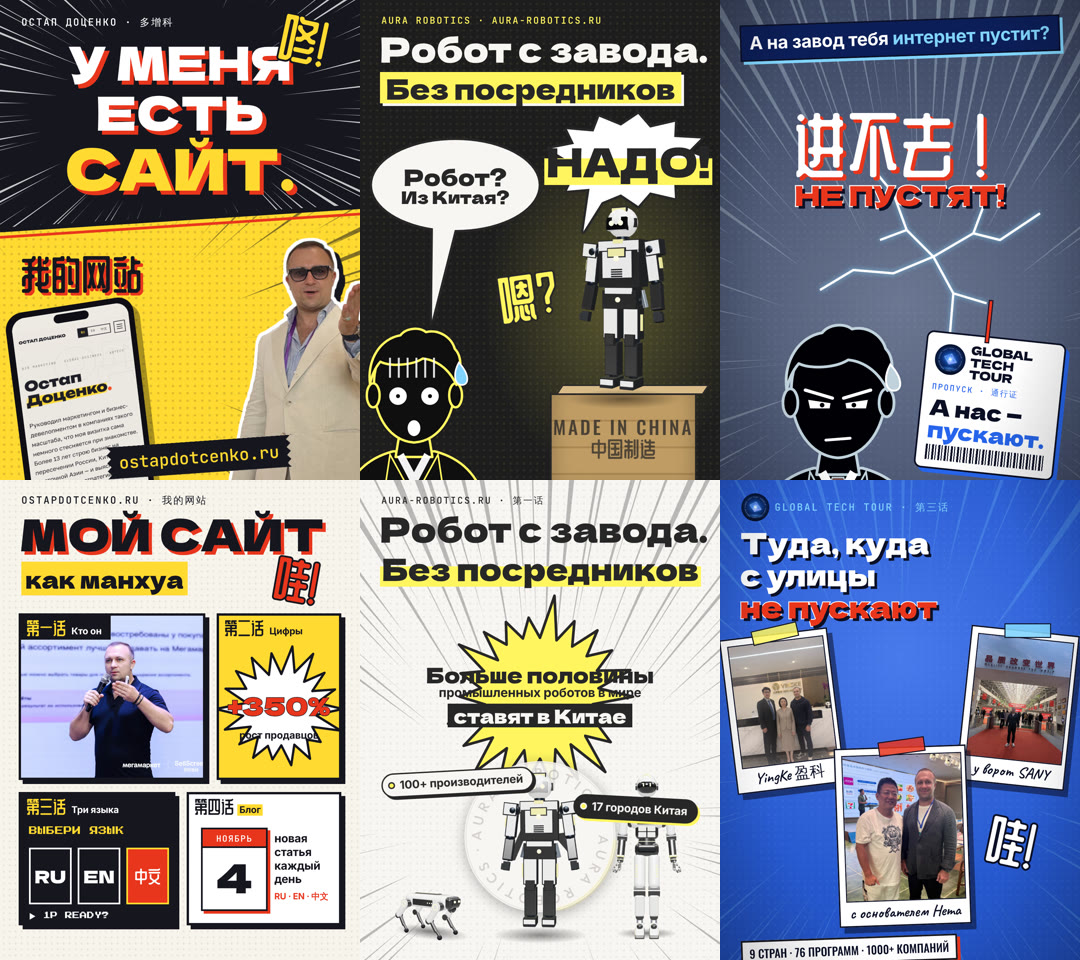
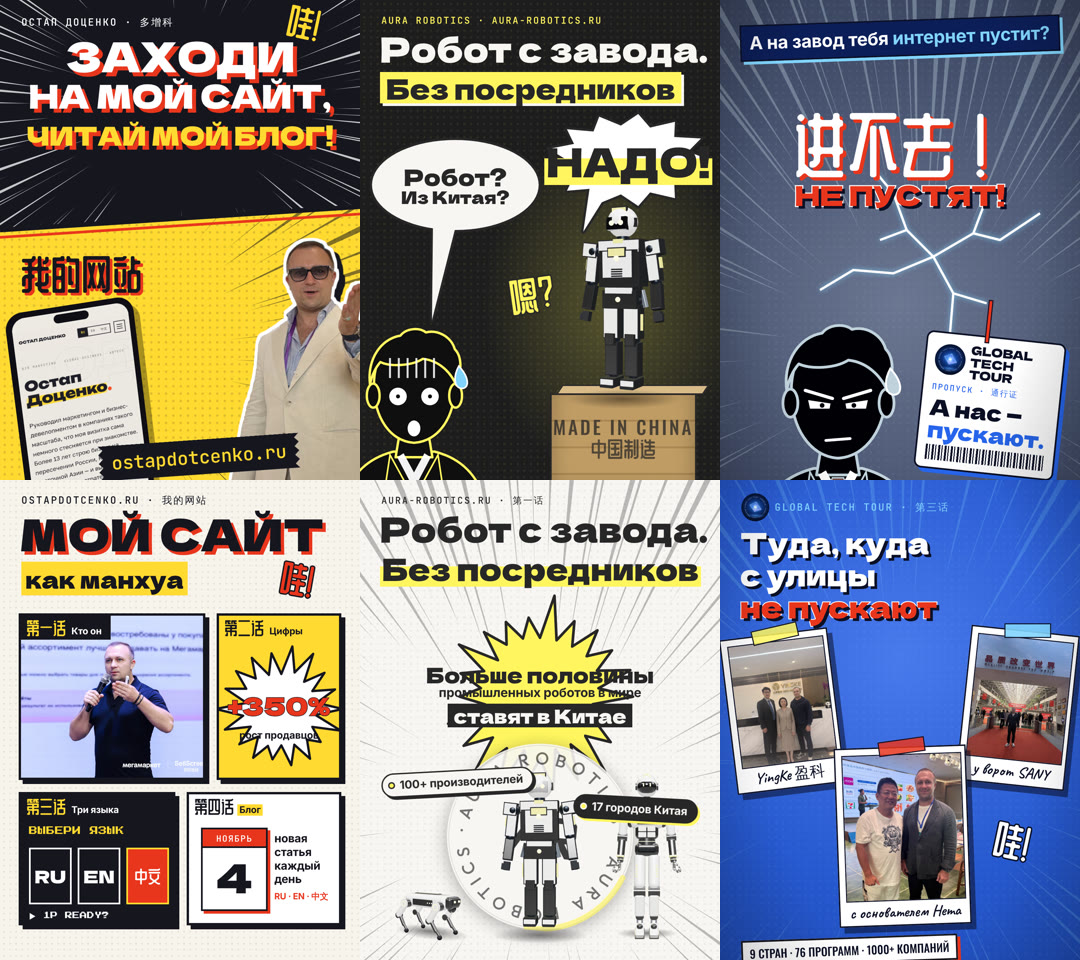
Обложки манхуа: «Мой сайт» — «Заходи на мой сайт, читай мой блог» (выбран A), Aura — A; GTT — ещё 4 варианта (VS, кампусы, страница, 9 стран)
Claude-Session: https://claude.ai/code/session_01GWbvgKxue3PjjbbHEP4BVJ

diff --git a/reels-studio/src/compositions/ManhuaCovers.tsx b/reels-studio/src/compositions/ManhuaCovers.tsx
@@ -16,7 +16,7 @@ import {FONT} from "./site-manhua/fonts";
 import {Skeptic} from "./site-manhua/skeptic";
 import {Bubble, Burst, C, Grain, Halftone, Narration, Phone, Sfx, SpeedLines, Tape, Vignette} from "./site-manhua/fx";
 
-export const MANHUA_COVERS = 6;
+export const MANHUA_COVERS = 10;
 // все анимации набора к этому кадру уже закончились; 3D-жесты считаются от T секунд
 const F = 200;
 const T = F / 30;
@@ -42,15 +42,15 @@ const Polaroid: React.FC<{x: number; y: number; w: number; h: number; src: strin
   </div>
 );
 
-// ── «Мой сайт», A: хук — «У МЕНЯ ЕСТЬ САЙТ.» ударами на чернилах, снизу жёлтый растр: телефон с сайтом и портрет ─────────────
+// ── «Мой сайт», A (правка пользователя 04.11.2026: «не У меня есть сайт — Заходи на мой сайт, Читай мой блог») — ударами на чернилах, снизу жёлтый растр: телефон с сайтом и портрет ─────────────
 const OdHook: React.FC = () => (
   <AbsoluteFill style={{background: C.ink}}>
     <SpeedLines color="#fff" opacity={0.75} inner={400} cy={560} seed="oda" />
     <div style={abs(64, 286, mono(30, "#fff"))}>ОСТАП ДОЦЕНКО · 多增科</div>
-    {[["У МЕНЯ", 350, 140, "#fff"], ["ЕСТЬ", 500, 140, "#fff"], ["САЙТ.", 650, 172, C.y]].map(([t, y, s, c]) => (
+    {[["ЗАХОДИ", 340, 124, "#fff"], ["НА МОЙ САЙТ,", 474, 98, "#fff"], ["ЧИТАЙ МОЙ БЛОГ!", 604, 78, C.y]].map(([t, y, s, c]) => (
       <div key={t as string} style={{position: "absolute", left: 0, right: 0, top: y as number, textAlign: "center", whiteSpace: "nowrap", ...dela(s as number, c as string, {textShadow: `12px 12px 0 ${C.red}`})}}>{t}</div>
     ))}
-    <Sfx text="咚!" x={850} y={300} size={120} color={C.y} at={0} font={FONT.zcool} rot={12} />
+    <Sfx text="哇!" x={860} y={250} size={110} color={C.y} at={0} font={FONT.zcool} rot={12} />
     {/* жёлтая половина с косым срезом */}
     <AbsoluteFill style={{clipPath: "polygon(0 930px, 1080px 860px, 1080px 1920px, 0 1920px)"}}>
       <Halftone bg={C.y} dot="rgba(25,25,34,.16)" />
@@ -267,8 +267,143 @@ const GttPeople: React.FC = () => (
   </AbsoluteFill>
 );
 
-const COVERS = [OdHook, OdPage, AuraHook, AuraTeam, GttHook, GttPeople];
-export const COVER_NAMES = ["od-A-hook", "od-B-glavy", "aura-A-hook", "aura-B-komanda", "gtt-A-hook", "gtt-B-pervye-lica"];
+
+const LOGO = "source-videos/логотипы/";
+const FLAG = "интернет-материалы/флаги/";
+const Title: React.FC<{y: number; lines: [string, string?][]; size?: number}> = ({y, lines, size = 88}) => (
+  <>
+    {lines.map(([s, c], i) => (
+      <div key={s} style={abs(60, y + i * (size + 8), dela(size, c ?? "#fff", {textShadow: `8px 8px 0 ${G.ink}`, whiteSpace: "nowrap", ...(c === G.red ? {WebkitTextStroke: "5px #fff", paintOrder: "stroke fill"} : {})}))}>{s}</div>
+    ))}
+  </>
+);
+const GttHead: React.FC<{zh?: string; light?: boolean}> = ({zh = "全球科技之旅", light}) => (
+  <div style={abs(64, 280, {display: "flex", alignItems: "center", gap: 16})}>
+    <Img src={staticFile(CRYSTAL)} style={{width: 84, height: 84, borderRadius: "50%"}} />
+    <div style={mono(30, light ? G.blue : G.sky)}>GLOBAL TECH TOUR · {zh}</div>
+  </div>
+);
+
+// ── GTT, C: экран файтинга «VS» — Директор с телефоном («я всё посмотрел в интернете») против Остапа на переговорах ────────────
+const GttVs: React.FC = () => (
+  <AbsoluteFill style={{background: G.ink}}>
+    {/* левая половина — серый «интернет» */}
+    <AbsoluteFill style={{clipPath: "polygon(0 0, 640px 0, 440px 1920px, 0 1920px)", filter: "grayscale(1) contrast(1.1)"}}>
+      <NavyBg cy={50} />
+      <SpeedLines color="rgba(255,255,255,.35)" cx={260} cy={1100} inner={300} seed="gvl" />
+      <Skeptic x={-150} y={1000} scale={1.3} emo="neutral" phone tie fill={G.ink} rim="#fff" accent={G.red} />
+    </AbsoluteFill>
+    {/* правая — синий GTT */}
+    <AbsoluteFill style={{clipPath: "polygon(640px 0, 1080px 0, 1080px 1920px, 440px 1920px)"}}>
+      <NavyBg cy={40} />
+      <SpeedLines color="rgba(125,211,252,.6)" cx={820} cy={1100} inner={320} seed="gvr" />
+      <Img src={staticFile(`${CUT}ostap-yingke-mikrofon.png`)} style={{position: "absolute", left: 420, top: 820, height: 900, filter: `drop-shadow(8px 0 0 #fff) drop-shadow(-8px 0 0 #fff) drop-shadow(0 -8px 0 #fff) drop-shadow(16px 16px 0 ${G.ink})`}} />
+    </AbsoluteFill>
+    <svg width={1080} height={1920} style={{position: "absolute", inset: 0}}>
+      <line x1={640} y1={0} x2={440} y2={1920} stroke="#fff" strokeWidth={18} />
+      <line x1={652} y1={0} x2={452} y2={1920} stroke={G.red} strokeWidth={8} />
+    </svg>
+    <div style={{fontFamily: FONT.pixel, fontSize: 30, color: G.sky, position: "absolute", left: 0, right: 0, top: 290, textAlign: "center"}}>ROUND 1 · FIGHT!</div>
+    <div style={abs(40, 360, {width: 520, background: "#fff", border: `5px solid ${G.ink}`, padding: "14px 20px", rotate: "-3deg", boxShadow: `8px 8px 0 ${G.ink}`, ...inter(40, G.ink)})}>
+      «Я всё посмотрел <span style={{color: G.red}}>в интернете</span>»
+    </div>
+    <div style={abs(520, 560, {width: 520, background: G.deep, border: `5px solid ${G.ink}`, padding: "14px 20px", rotate: "3deg", boxShadow: `8px 8px 0 ${G.sky}`, ...inter(40, "#fff")})}>
+      «А я был <span style={{color: G.sky}}>внутри</span>»
+    </div>
+    <div style={{position: "absolute", left: 0, right: 0, top: 760, textAlign: "center", ...dela(230, G.red, {WebkitTextStroke: "8px #fff", paintOrder: "stroke fill", textShadow: `14px 14px 0 ${G.ink}`, fontStyle: "italic"})}}>VS</div>
+    <div style={abs(40, 1560, {display: "flex", gap: 14})}>
+      <div style={{background: "#fff", border: `4px solid ${G.ink}`, padding: "8px 16px", ...mono(26, G.ink)}}>ИНТЕРНЕТ</div>
+    </div>
+    <div style={abs(640, 1560, {background: G.blue, border: `4px solid ${G.ink}`, padding: "8px 16px", ...mono(26, "#fff")})}>GLOBAL TECH TOUR</div>
+    <Grain opacity={0.1} />
+  </AbsoluteFill>
+);
+
+// ── GTT, D: пропуска шести кампусов на лентах — учёба у Huawei, Alibaba, Xiaomi… ──────────────────────────────────────────────
+const CAMPUS: [string, string][] = [["общие/huawei.svg", "Huawei"], ["общие/alibaba.svg", "Alibaba"], ["общие/xiaomi.svg", "Xiaomi"], ["бытовая-техника/haier.svg", "Haier"], ["общие/bytedance.png", "ByteDance"], ["финансы/ping-an.svg", "Ping An"]];
+const GttCampus: React.FC = () => (
+  <AbsoluteFill>
+    <NavyBg cy={45} />
+    <SpeedLines color="rgba(125,211,252,.35)" cx={540} cy={1150} inner={520} opacity={0.6} seed="gc" />
+    <GttHead zh="第四话" />
+    <Title y={380} lines={[["Пропуск"], ["в кампусы"], ["Huawei и Alibaba", G.sky]]} size={84} />
+    {CAMPUS.map(([l, n], i) => {
+      const col = i % 3;
+      const row = Math.floor(i / 3);
+      return (
+        <div key={n} style={abs(48 + col * 334, 820 + row * 380 + (col === 1 ? 40 : 0), {width: 300, rotate: `${(col - 1) * 6 + (row ? 3 : -3)}deg`})}>
+          <div style={abs(133, -70, {width: 34, height: 80, background: G.blue, border: `3px solid ${G.ink}`})} />
+          <div style={{background: "#fff", border: `4px solid ${G.ink}`, borderRadius: 18, overflow: "hidden", boxShadow: `9px 9px 0 ${G.blue}`}}>
+            <div style={{background: G.blue, color: "#fff", padding: "8px 14px", ...mono(20, "#fff")}}>ГОСТЬ КАМПУСА</div>
+            <div style={{height: 150, display: "flex", alignItems: "center", justifyContent: "center"}}>
+              <Img src={staticFile(`${LOGO}${l}`)} style={{maxWidth: 220, maxHeight: 92, objectFit: "contain"}} />
+            </div>
+            <div style={{padding: "0 14px 12px", ...inter(30, G.ink)}}>{n}</div>
+          </div>
+        </div>
+      );
+    })}
+    <Sfx text="学!" x={830} y={300} size={140} color={G.sky} stroke={G.ink} at={0} font={FONT.zcool} rot={-8} />
+    <Narration x={64} y={1612} at={0} font={FONT.oswald} size={32} rot={-2} bg="#fff" color={G.ink}>ИНТЕНСИВЫ ИЗ ПЕРВЫХ РУК · С ПЕРЕВОДОМ</Narration>
+    <Grain opacity={0.1} />
+    <Vignette strength={0.28} />
+  </AbsoluteFill>
+);
+
+// ── GTT, E: страница манхуа — «Интернет туда не пустит»: четыре панели с настоящими встречами и визитами ────────────────────────
+const GttPage: React.FC = () => {
+  const panel = (x: number, y: number, w: number, h: number, src: string, pos: string, tag: string, rot = 0) => (
+    <div style={abs(x, y, {width: w, height: h, border: `7px solid ${G.ink}`, boxShadow: `12px 12px 0 ${G.ink}`, overflow: "hidden", rotate: `${rot}deg`, background: G.ink})}>
+      <Img src={staticFile(src)} style={{width: "100%", height: "100%", objectFit: "cover", objectPosition: pos}} />
+      <div style={abs(0, 0, {background: G.ink, color: "#fff", padding: "8px 14px", ...inter(28, "#fff")})}>{tag}</div>
+    </div>
+  );
+  return (
+    <AbsoluteFill style={{background: "#F4F6FB"}}>
+      <Halftone bg="#F4F6FB" dot="rgba(37,99,235,.10)" size={18} r={2.6} />
+      <GttHead zh="第三话" light />
+      <div style={abs(60, 380, dela(90, G.ink, {textShadow: `8px 8px 0 ${G.sky}`, whiteSpace: "nowrap"}))}>Интернет</div>
+      <div style={abs(60, 482, dela(80, G.blue, {textShadow: `8px 8px 0 ${G.ink}`, whiteSpace: "nowrap"}))}>туда не пустит</div>
+      {panel(48, 640, 600, 470, "source-videos/обложки/2026-11-03-manhua/hema-kadr.jpg", "50% 18%", "С основателем Hema", -1)}
+      {panel(676, 640, 356, 470, "source-videos/2026-10-25-sany/IMG_5645.jpg", "50% 30%", "SANY", 1)}
+      {panel(48, 1140, 420, 440, `${PH}yingke-rukovodstvo.jpg`, "50% 30%", "YingKe 盈科", 1)}
+      {panel(496, 1140, 536, 440, `${PH}xingwang-hou.jpg`, "50% 30%", "Xingwang", -1)}
+      <Sfx text="进!" x={840} y={330} size={120} color={G.red} stroke="#fff" at={0} font={FONT.zcool} rot={10} />
+      <Grain opacity={0.08} />
+    </AbsoluteFill>
+  );
+};
+
+// ── GTT, F: 9 стран загораются флагами, во взрыве — 76 программ ─────────────────────────────────────────────────────────────
+const COUNTRIES: [string, string][] = [["cn", "Китай"], ["jp", "Япония"], ["kr", "Корея"], ["th", "Таиланд"], ["vn", "Вьетнам"], ["id", "Индонезия"], ["my", "Малайзия"], ["in", "Индия"], ["ae", "ОАЭ"]];
+const GttCountries: React.FC = () => (
+  <AbsoluteFill>
+    <NavyBg cy={55} />
+    <SpeedLines color="rgba(125,211,252,.5)" cx={540} cy={1180} inner={420} opacity={0.75} seed="gf" />
+    <GttHead />
+    <Title y={380} lines={[["Бизнес-экспедиции"], ["в Китай"], ["и не только", G.sky]]} size={70} />
+    {COUNTRIES.map(([c, n], i) => (
+      <div key={c} style={abs(48 + (i % 3) * 332, 690 + Math.floor(i / 3) * 96, {width: 312, height: 80, display: "flex", alignItems: "center", gap: 14, background: "#fff", border: `4px solid ${G.ink}`, borderRadius: 14, padding: "0 14px", boxShadow: `0 0 28px rgba(125,211,252,.6), 6px 6px 0 ${G.blue}`})}>
+        <Img src={staticFile(`${FLAG}${c}.png`)} style={{width: 64, height: 44, objectFit: "cover", border: `2px solid ${G.ink}`}} />
+        <span style={inter(30, G.ink)}>{n}</span>
+      </div>
+    ))}
+    <div style={abs(40, 990, {width: 1000, height: 520})}>
+      <Burst x={500} y={260} r={300} color={G.blue} stroke="#fff" sw={8} seed="gfb" points={22} />
+    </div>
+    <div style={{position: "absolute", left: 0, right: 0, top: 1120, textAlign: "center"}}>
+      <div style={dela(170, "#fff", {textShadow: `10px 10px 0 ${G.ink}`, lineHeight: 1})}>76</div>
+      <div style={inter(40, G.sky)}>готовых программ</div>
+    </div>
+    <Narration x={64} y={1612} at={0} font={FONT.oswald} size={34} rot={-2} bg="#fff" color={G.ink}>1000+ КОМПАНИЙ · 18 ОТРАСЛЕЙ</Narration>
+    <Sfx text="轰!" x={830} y={1040} size={130} color="#fff" stroke={G.ink} at={0} font={FONT.zcool} rot={12} />
+    <Grain opacity={0.1} />
+    <Vignette strength={0.28} />
+  </AbsoluteFill>
+);
+
+const COVERS = [OdHook, OdPage, AuraHook, AuraTeam, GttHook, GttPeople, GttVs, GttCampus, GttPage, GttCountries];
+export const COVER_NAMES = ["od-A-hook", "od-B-glavy", "aura-A-hook", "aura-B-komanda", "gtt-A-hook", "gtt-B-pervye-lica", "gtt-C-vs", "gtt-D-kampusy", "gtt-E-stranica", "gtt-F-strany"];
 
 export const ManhuaCovers: React.FC = () => {
   const f = useCurrentFrame();

diff --git a/reels-studio/README.md b/reels-studio/README.md
@@ -548,8 +548,8 @@ node reels-studio/tools/od-posts/reel-sait.mjs            # ролик «Мой 
 # TMPDIR=/dev/shm/remotion-tmp npx remotion render src/index.ts AuraSiteManhua ../finished-videos/2026-11-03-aura-sait-manhua.mp4 --bundle-cache=false --crf=18
 # TMPDIR=/dev/shm/remotion-tmp npx remotion render src/index.ts GttSiteManhua ../finished-videos/2026-11-03-gtt-sait-manhua.mp4 --bundle-cache=false --crf=18
 # пробные кадры: … GttSiteManhuaPreview /dev/shm/prev --sequence --frames=0-20 --scale=0.5 --props='{"step":1,"start":0,"frames":[30,200,420]}'
-# обложки трёх манхуа-роликов (по 2 варианта): TMPDIR=/dev/shm/remotion-tmp npx remotion render src/index.ts ManhuaCovers /dev/shm/covers --sequence --image-format=png --frames=0-5 --bundle-cache=false
-#   → finished-videos/обложки/манхуа-сайты/ (кадр 0–1 «Мой сайт», 2–3 Aura, 4–5 GTT)
+# обложки трёх манхуа-роликов (по 2 варианта): TMPDIR=/dev/shm/remotion-tmp npx remotion render src/index.ts ManhuaCovers /dev/shm/covers --sequence --image-format=png --frames=0-9 --bundle-cache=false
+#   → finished-videos/обложки/манхуа-сайты/ (кадр 0–1 «Мой сайт», 2–3 Aura, 4–9 GTT A–F; --frames=0-9)
 ```
 Готовое и подписи — `finished-videos/обложки/ostap-посты-2026-11-02/` (`КАК-ПОСТАВИТЬ.md`).
 
